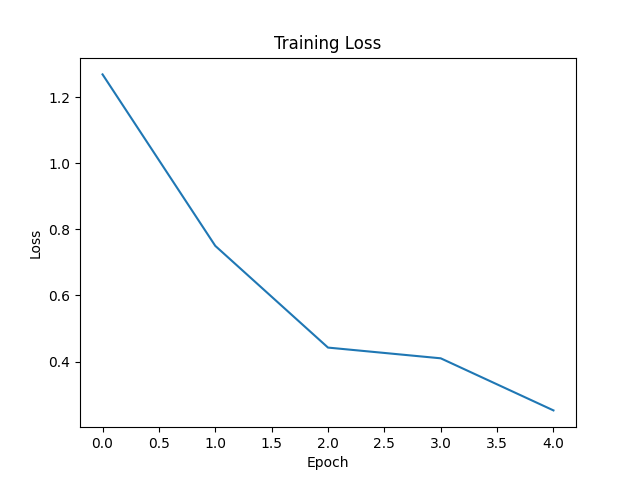
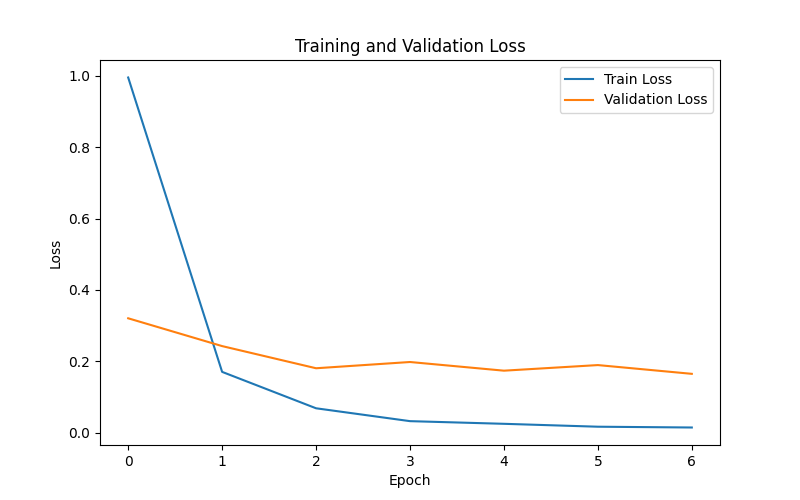
test models

diff --git a/train.py b/train.py
@@ -48,18 +48,27 @@ model = model.to(device)
 criterion = nn.CrossEntropyLoss()
 optimizer = optim.Adam(model.parameters(), lr=lr)
 
-# TRAIN ------------------------
+# ---------------- TRAIN ------------------------
+
 train_losses = []
+val_losses = []
+
+train_accuracies = []
+val_accuracies = []
 
 for epoch in range(epochs):
 
     print(f"\nEpoch {epoch+1}/{epochs}")
 
+    # -------- TRAIN --------
+
     model.train()
 
-    running_loss = 0.0
+    running_train_loss = 0.0
+    correct_train = 0
+    total_train = 0
 
-    for batch_idx, (images, labels) in enumerate(train_loader):
+    for images, labels in train_loader:
 
         images = images.to(device)
         labels = labels.to(device)
@@ -72,16 +81,57 @@ for epoch in range(epochs):
         loss.backward()
         optimizer.step()
 
-        running_loss += loss.item()
+        running_train_loss += loss.item()
 
-        if batch_idx % 5 == 0:
-            print(f"Batch {batch_idx} | Loss: {loss.item():.4f}")
+        _, predicted = torch.max(outputs, 1)
 
-    epoch_loss = running_loss / len(train_loader)
+        total_train += labels.size(0)
+        correct_train += (predicted == labels).sum().item()
 
-    train_losses.append(epoch_loss)
+    epoch_train_loss = running_train_loss / len(train_loader)
+    epoch_train_acc = 100 * correct_train / total_train
 
-    print(f"Epoch Loss: {epoch_loss:.4f}")
+    train_losses.append(epoch_train_loss)
+    train_accuracies.append(epoch_train_acc)
+
+    # -------- VALIDATION --------
+
+    model.eval()
+
+    running_val_loss = 0.0
+    correct_val = 0
+    total_val = 0
+
+    with torch.no_grad():
+
+        for images, labels in val_loader:
+
+            images = images.to(device)
+            labels = labels.to(device)
+
+            outputs = model(images)
+
+            loss = criterion(outputs, labels)
+
+            running_val_loss += loss.item()
+
+            _, predicted = torch.max(outputs, 1)
+
+            total_val += labels.size(0)
+            correct_val += (predicted == labels).sum().item()
+
+    epoch_val_loss = running_val_loss / len(val_loader)
+    epoch_val_acc = 100 * correct_val / total_val
+
+    val_losses.append(epoch_val_loss)
+    val_accuracies.append(epoch_val_acc)
+
+    print(
+        f"Train Loss: {epoch_train_loss:.4f} | "
+        f"Val Loss: {epoch_val_loss:.4f} | "
+        f"Train Acc: {epoch_train_acc:.2f}% | "
+        f"Val Acc: {epoch_val_acc:.2f}%"
+    )
 
 # TEST ------------------------
 model.eval()
@@ -107,8 +157,38 @@ torch.save(model.state_dict(), "best_model.pth")
 with open("metrics.json", "w") as f:
     json.dump({"test_accuracy": test_accuracy}, f)
 
-plt.plot(train_losses)
+# ---------------- LOSS GRAPH ------------------------
+
+plt.figure(figsize=(8,5))
+
+plt.plot(train_losses, label="Train Loss")
+plt.plot(val_losses, label="Validation Loss")
+
 plt.xlabel("Epoch")
 plt.ylabel("Loss")
-plt.title("Training Loss")
+
+plt.title("Training and Validation Loss")
+
+plt.legend()
+
 plt.savefig("loss_plot.png")
+
+plt.close()
+
+# ---------------- ACCURACY GRAPH ------------------------
+
+plt.figure(figsize=(8,5))
+
+plt.plot(train_accuracies, label="Train Accuracy")
+plt.plot(val_accuracies, label="Validation Accuracy")
+
+plt.xlabel("Epoch")
+plt.ylabel("Accuracy")
+
+plt.title("Training and Validation Accuracy")
+
+plt.legend()
+
+plt.savefig("accuracy_plot.png")
+
+plt.close()
